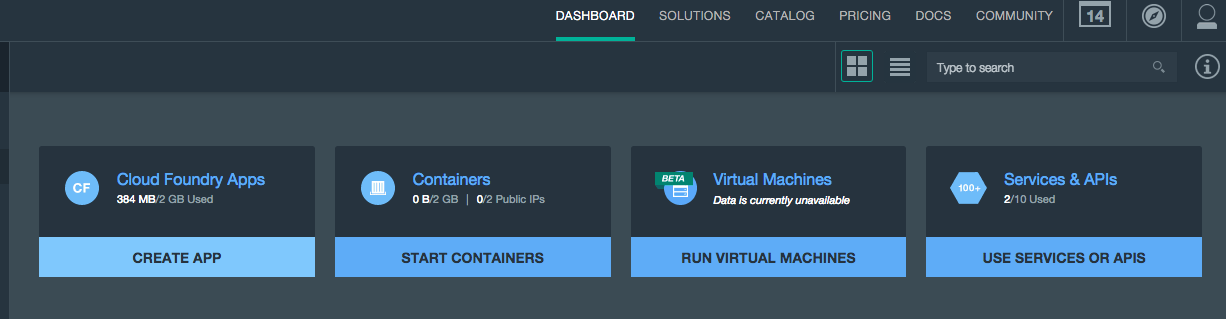
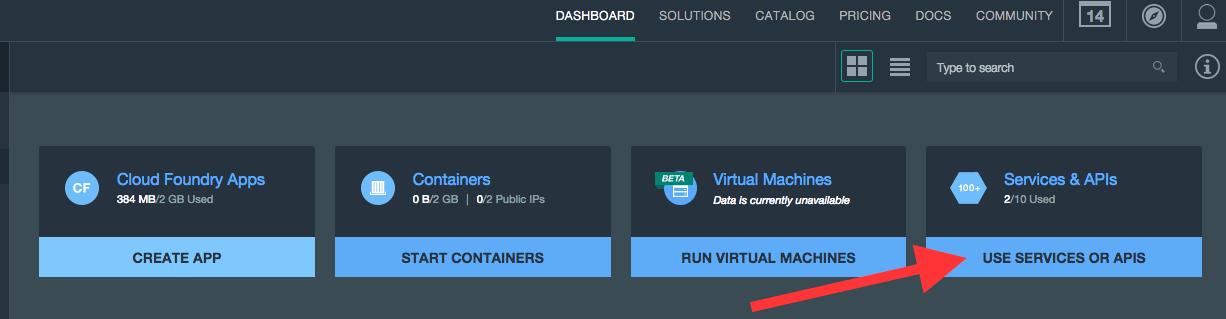
updated screenshots and instructions

Changed region(s): [[0.5889, 0.7618, 0.8059, 0.9875]]

diff --git a/README.md b/README.md
@@ -17,10 +17,20 @@ To use Watson you'll need to [register and create a Bluemix account](https://con
 
 ### 4. Get your Watson - Langage Classifier - API keys
 
+#### a. In Bluemix's dashboard click on the "User Sevices or APIs" rectangle.
+
 ![Use Service](/screen-shots/1-use-service.png)
+
+#### b. Select the "Natural Language Classifier" service
 
 ![Add Service](/screen-shots/2-add-service.png)
 
+#### c. Now create the credientials for using the classifier via the API
+
 ![Create Credential](/screen-shots/3-create-credentials.png)
 
+#### d. View your credentials and copy them into `config-sample.js`*
+
 ![View Credentials](/screen-shots/4-view-credentials.png)
+
+#### e. Finally, rename `config-sample.js` to `config.js`
